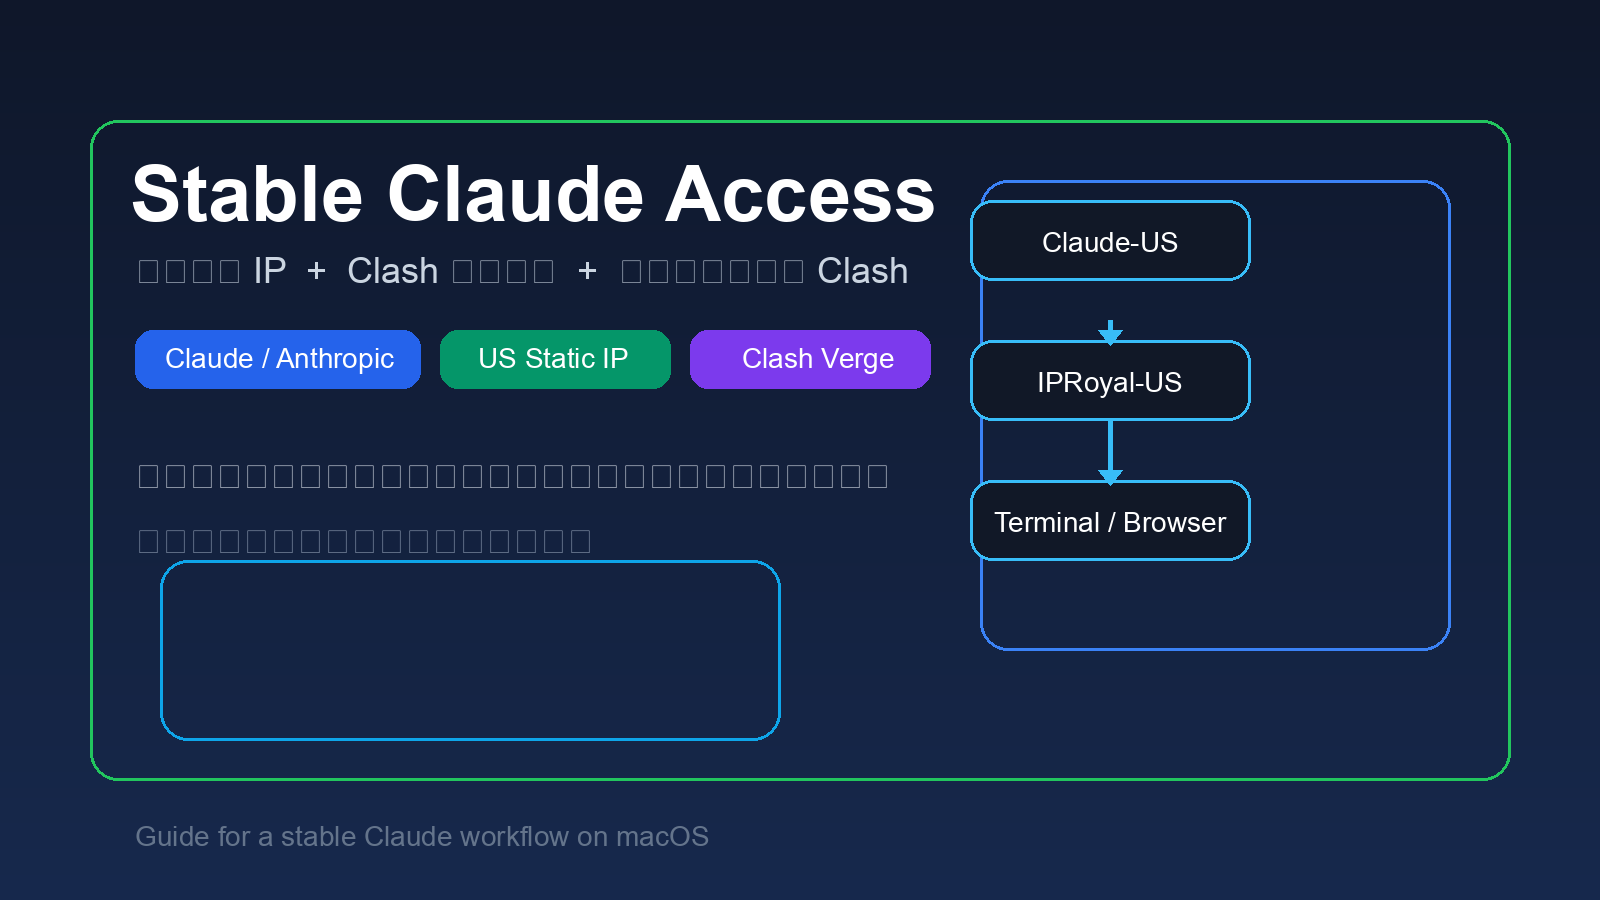
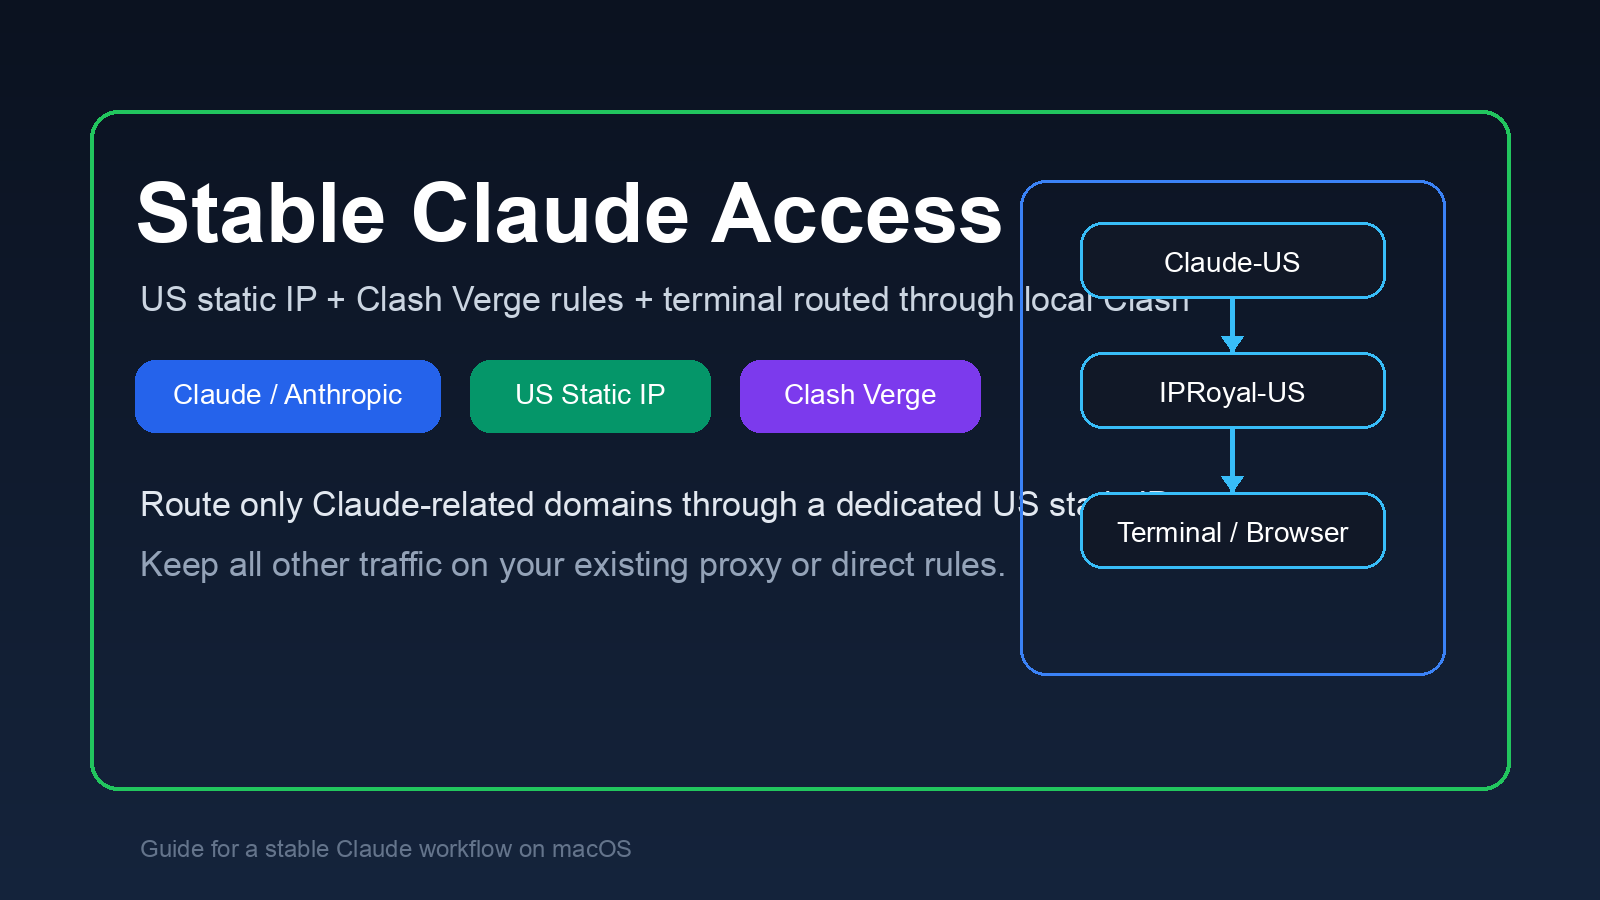
Add reusable skill and refresh cover

diff --git a/skills/claude-us-clash-config/SKILL.md b/skills/claude-us-clash-config/SKILL.md
@@ -1,0 +1,177 @@
+---
+name: claude-us-clash-config
+description: Configure macOS Clash Verge so Claude and Anthropic-related traffic uses a dedicated US static proxy while other traffic keeps existing proxy/direct behavior. Use when setting up or updating a local machine for stable Claude access with IPRoyal or a similar static proxy.
+---
+
+# Claude US Clash Config
+
+Use this skill when the goal is:
+
+- keep existing Clash Verge subscriptions intact
+- route `claude.ai` and related Anthropic domains through a dedicated US static proxy
+- keep other traffic on the user's existing rules
+- make terminal traffic follow local Clash rules instead of connecting directly to the proxy vendor
+
+This skill assumes a macOS machine with Clash Verge Rev installed.
+
+## Inputs to collect
+
+Before editing anything, collect:
+
+- `type` (`socks5` preferred, `http` acceptable)
+- `host`
+- `port`
+- `username`
+- `password`
+
+Optional:
+
+- extra domains that should also go through the dedicated Claude route
+
+## Safety rules
+
+Always follow these rules:
+
+- Do not delete the user's existing subscription or main proxy group.
+- Back up any file before editing it.
+- Prefer editing Clash Verge enhancement files in `profiles/` when they exist.
+- Do not make terminal traffic connect directly to IPRoyal or another proxy vendor.
+- Terminal should connect only to local Clash, then let Clash rules decide routing.
+- Validate YAML after every config edit.
+
+## Expected Clash outcome
+
+The target state is:
+
+- node: `IPRoyal-US`
+- group: `Claude-US`
+- `Claude-US` options:
+  - `IPRoyal-US`
+  - `Proxy`
+  - `DIRECT`
+
+Only the following domains should go through `Claude-US` by default:
+
+- `claude.ai`
+- `anthropic.com`
+- `claudeusercontent.com`
+- `ipinfo.io` for testing
+- `intercomcdn.com`
+- `intercom.io`
+- `intercomassets.com`
+- `sentry.io`
+- `segment.io`
+
+Use `prepend`, not `append`, for these rules.
+
+## Files to inspect first
+
+Check these paths in order:
+
+1. `~/Library/Application Support/io.github.clash-verge-rev.clash-verge-rev/profiles.yaml`
+2. `~/Library/Application Support/io.github.clash-verge-rev.clash-verge-rev/profiles/`
+3. `~/Library/Application Support/io.github.clash-verge-rev.clash-verge-rev/clash-verge.yaml`
+
+If the active profile uses enhancement files, update these first:
+
+- proxies enhancement file
+- groups enhancement file
+- rules enhancement file
+
+Typical enhancement files look like:
+
+- `po7tMfZFQw6V.yaml`
+- `gVDxBcjmPiO4.yaml`
+- `r6Nws8evMy8G.yaml`
+
+## Edit pattern
+
+### Proxies enhancement
+
+Add a node like:
+
+```yaml
+append:
+  - name: IPRoyal-US
+    type: socks5
+    server: 130.255.66.76
+    port: 12324
+    username: your_username
+    password: your_password
+```
+
+### Groups enhancement
+
+Add a group like:
+
+```yaml
+append:
+  - name: Claude-US
+    type: select
+    proxies:
+      - IPRoyal-US
+      - Proxy
+      - DIRECT
+```
+
+### Rules enhancement
+
+Add high-priority rules like:
+
+```yaml
+prepend:
+  - DOMAIN-SUFFIX,ipinfo.io,Claude-US
+  - DOMAIN-SUFFIX,claude.ai,Claude-US
+  - DOMAIN-SUFFIX,anthropic.com,Claude-US
+  - DOMAIN-SUFFIX,claudeusercontent.com,Claude-US
+  - DOMAIN-SUFFIX,intercomcdn.com,Claude-US
+  - DOMAIN-SUFFIX,intercom.io,Claude-US
+  - DOMAIN-SUFFIX,intercomassets.com,Claude-US
+  - DOMAIN-SUFFIX,sentry.io,Claude-US
+  - DOMAIN-SUFFIX,segment.io,Claude-US
+```
+
+## Terminal behavior
+
+The terminal should follow Clash rules by pointing to local Clash only:
+
+```bash
+export http_proxy="http://127.0.0.1:7897"
+export https_proxy="http://127.0.0.1:7897"
+export all_proxy="socks5h://127.0.0.1:7897"
+export HTTP_PROXY="$http_proxy"
+export HTTPS_PROXY="$https_proxy"
+export ALL_PROXY="$all_proxy"
+```
+
+Do not point shell variables directly to the static proxy provider.
+
+## Verification steps
+
+After edits:
+
+1. validate YAML
+2. refresh Clash Verge subscription
+3. confirm `Claude-US` exists and is set to `IPRoyal-US`
+4. run:
+
+```bash
+curl https://ipinfo.io
+curl -I https://claude.ai
+curl -I https://www.anthropic.com
+```
+
+Expected result:
+
+- `ipinfo.io` shows the US static IP
+- Claude and Anthropic domains respond successfully
+
+## When to fall back
+
+If the dedicated static proxy is unstable:
+
+- keep `Claude-US` in place
+- switch `Claude-US` to `Proxy` temporarily
+- preserve the config so the user can switch back later
+
+This is preferable to deleting the static proxy config entirely.

diff --git a/README.md b/README.md
@@ -23,6 +23,7 @@
 - [购买方法](#购买方法)
 - [IPRoyal 参数说明](#iproyal-参数说明)
 - [给 Codex / Claude 的一键配置提示词](#给-codex--claude-的一键配置提示词)
+- [仓库内置 Skill](#仓库内置-skill)
 - [Clash Verge 配置方法](#clash-verge-配置方法)
 - [只让 Claude / Anthropic 走静态 IP](#只让-claude--anthropic-走静态-ip)
 - [终端如何遵循 Clash 规则](#终端如何遵循-clash-规则)
@@ -184,6 +185,21 @@ Password: your_password
 6. 修改后请验证 YAML 合法性。
 7. 不要改动我无关的 shell 配置和业务项目文件。
 ```
+
+## 仓库内置 Skill
+
+如果你需要反复在别人的电脑上做同样的事情，这个仓库已经附带了一个可复用 skill：
+
+- [skills/claude-us-clash-config/SKILL.md](skills/claude-us-clash-config/SKILL.md)
+
+这个 skill 的定位是：
+
+- 不删除现有订阅
+- 给 `Claude / Anthropic` 单独接入固定美国静态 IP
+- 终端只连接本机 Clash，再由 Clash 规则分流
+- 改完后自动验证
+
+如果你在本地使用支持 skills 的 Codex / Claude 环境，可以直接把这份 skill 放进你的技能目录，或者让 AI 读取仓库中的这份 skill 来执行。
 
 ## Clash Verge 配置方法
 
